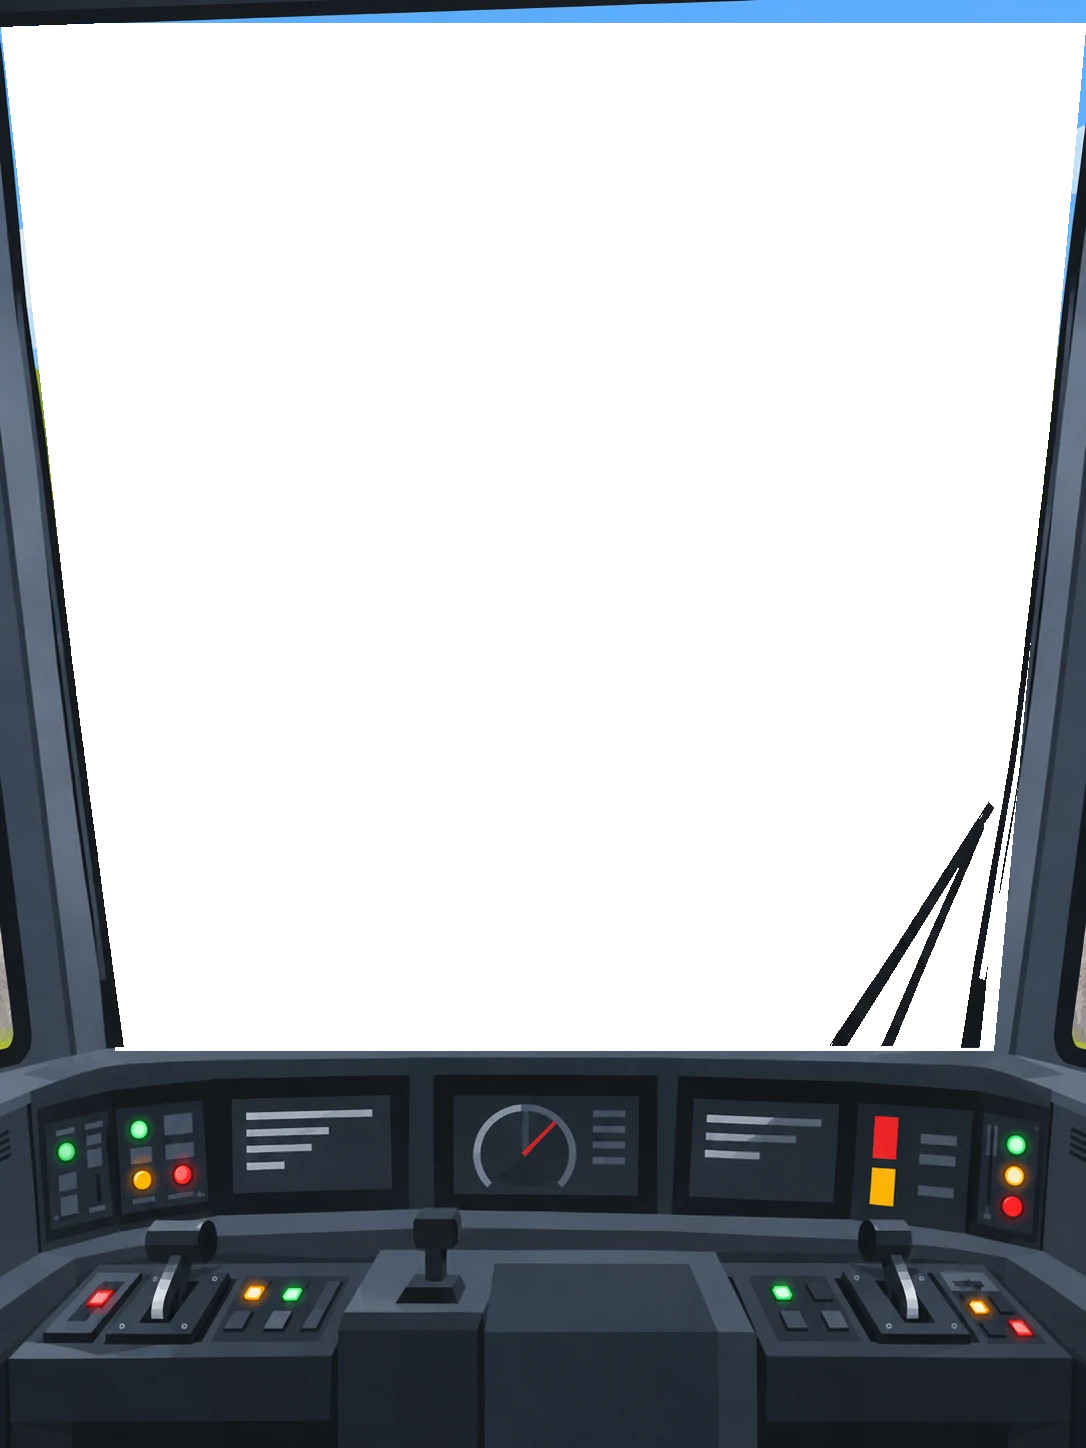
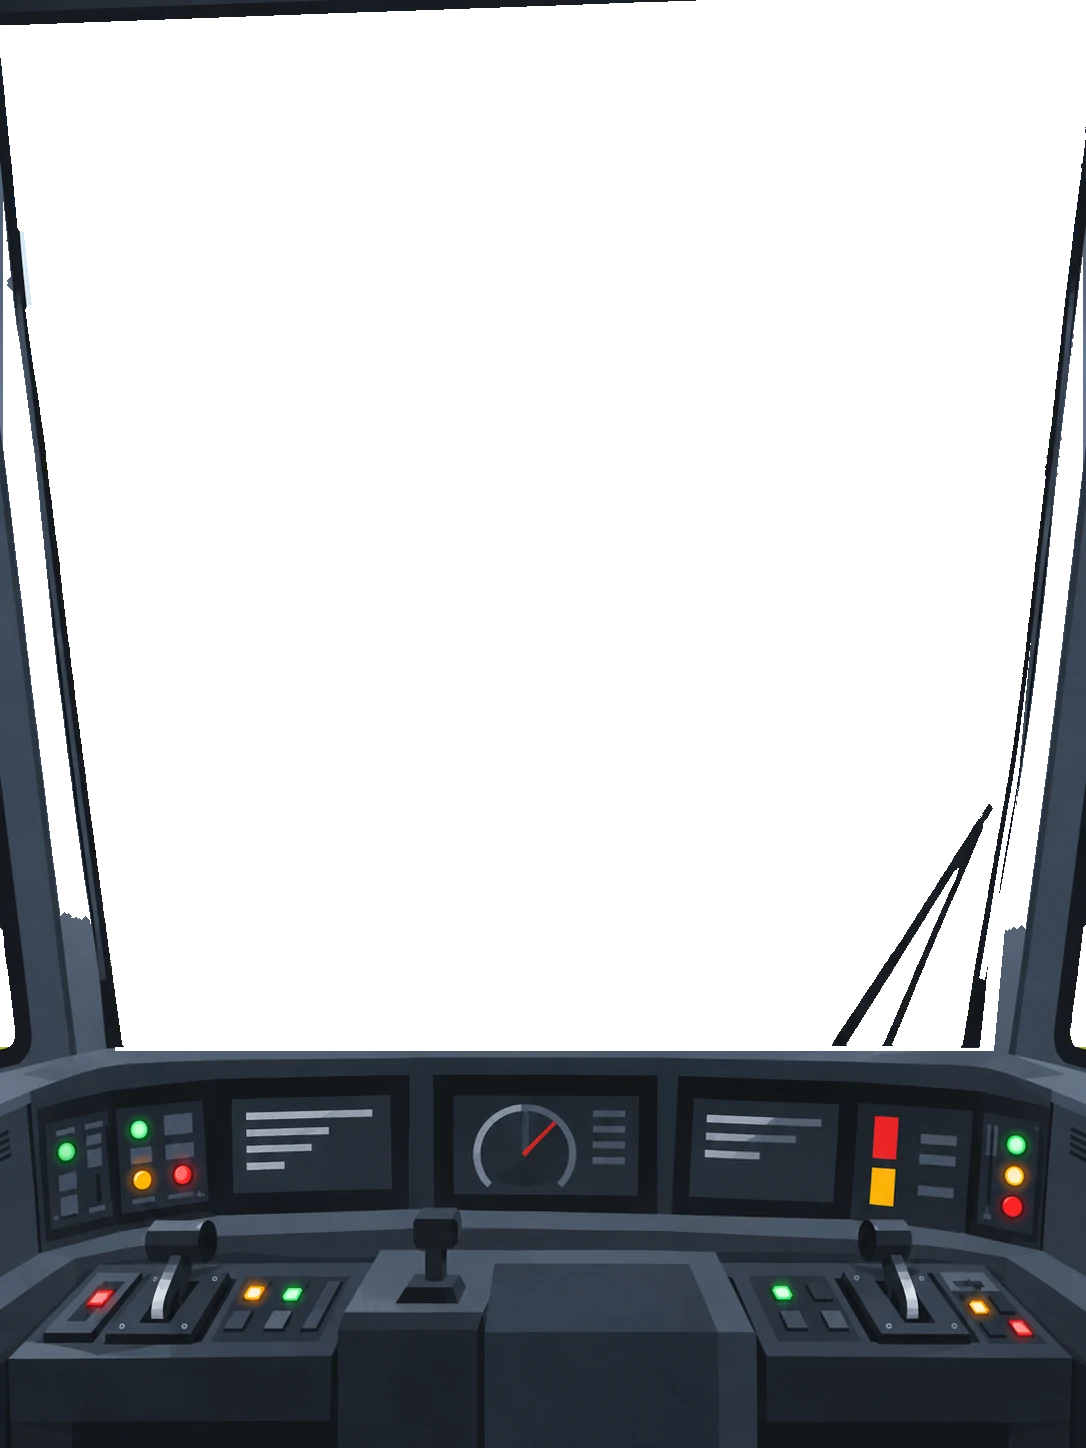
Wetter: Regen und Schnee auch in der Brille; Führerstand als Bild: Seitenfenster offen
Claude-Session: https://claude.ai/code/session_01NmQeKCF7bHq44rvGBQiMKH

diff --git a/app/src/komponenten/Relief.tsx b/app/src/komponenten/Relief.tsx
@@ -109,6 +109,8 @@ const DAEMMERUNG_HIMMEL = 0.3, DAEMMERUNG_SONNE = 0.25
 const WOLKEN_SONNE = 0.8, WOLKEN_HIMMEL = 0.15, WETTER_NEU_MS = 10 * 60e3
 /** Dunst bei Regen und Schnee im Führerstand (FogExp2, je km), gewählt */
 const DUNST_JE_KM = 0.06
+/** in der Brille auf dem Tisch: so gross ist der Würfel mit Regen und Schnee über dem Modell (m), gewählt */
+const NIEDER_TISCH_M = 1.6
 /** Tunnel als Röhre, durch die der Zug fährt und durch die man blicken kann (Michael, 2026-10-12: «in eine Röhre
  *  fahren … durch den Berg bewegen … durch die Röhre blicken»). Querschnitt, Farbe und Licht stehen in keiner Quelle.
  *  Seit 2026-10-13 nach Michaels Vorbild einer Modellbahn: ein Hufeisen, senkrechte Wände ROEHRE_HALB_M neben der Linie
@@ -1889,6 +1891,7 @@ function Szene({ r, h, faktor, weg: wegRoh, wegFarbe, zug: zugVonAussen, blick, 
     const niederStoff = new THREE.LineBasicMaterial({ color: '#dfe6ee', transparent: true, opacity: 0.55, depthWrite: false })
     const flockenStoff = new THREE.PointsMaterial({ color: '#ffffff', size: 3, sizeAttenuation: false, transparent: true, opacity: 0.9, depthWrite: false })
     const nieder = new THREE.LineSegments(niederGeo, niederStoff)
+    const niederPunkt = new THREE.Vector3()
     const flocken = new THREE.Points(niederGeo, flockenStoff)
     flocken.frustumCulled = false
     flocken.visible = false
@@ -4434,15 +4437,32 @@ function Szene({ r, h, faktor, weg: wegRoh, wegFarbe, zug: zugVonAussen, blick, 
       }
       // Regen und Schnee fallen im Würfel um die Kamera: im Führerstand 60 m, sonst mit dem Abstand zum Blickpunkt
       if (mitWetter) leisteLegen(imStand)
-      // in der Brille vorerst ohne (dort ist das Modell auf dem Tisch)
+      // auch in der Brille (Michael, 2026-10-24): auf dem Tisch über dem Modell, im Führerstand um den Kopf
       const schnee = wetter?.art === 'schnee'
-      const fallend = niederAn && !renderer.xr.isPresenting
+      const fallend = niederAn
       nieder.visible = fallend && !schnee
       flocken.visible = fallend && schnee
-      dunst.density = fallend && imStand ? DUNST_JE_KM * (0.5 + 0.5 * (wetter?.staerke ?? 0)) : 0
+      // der Dunst je Einheit der Welt: auf dem Bildschirm km, in der Brille Meter (das Modell 1000-fach)
+      dunst.density = fallend && imStand ? (DUNST_JE_KM * (0.5 + 0.5 * (wetter?.staerke ?? 0))) / modell.scale.x : 0
       if (fallend) {
-        const seite = imStand ? 0.06 : Math.min(30, Math.max(0.05, kamera.position.distanceTo(steuerung.target) * 0.8))
-        for (const o of [nieder, flocken]) { o.position.copy(kamera.position); o.scale.setScalar(seite) }
+        let seite: number
+        if (renderer.xr.isPresenting) {
+          modell.updateMatrixWorld()
+          if (imStand) {
+            renderer.xr.getCamera().getWorldPosition(niederPunkt)
+            seite = 0.06
+          } else {
+            // ein Würfel von NIEDER_TISCH_M über dem Modell auf dem Tisch, sein Boden auf der Höhe des Modells
+            modell.getWorldPosition(niederPunkt)
+            niederPunkt.y += NIEDER_TISCH_M / 2
+            seite = NIEDER_TISCH_M / modell.scale.x
+          }
+          modell.worldToLocal(niederPunkt)
+        } else {
+          niederPunkt.copy(kamera.position)
+          seite = imStand ? 0.06 : Math.min(30, Math.max(0.05, kamera.position.distanceTo(steuerung.target) * 0.8))
+        }
+        for (const o of [nieder, flocken]) { o.position.copy(niederPunkt); o.scale.setScalar(seite) }
         const fall = (schnee ? 0.12 : 1.1) * dt, wind = (schnee ? 0.03 : 0.08) * dt
         for (let i = 0, j = 0; i < NIEDER_N * 3; i += 3, j += 6) {
           niederMitte[i + 1] -= fall * (0.7 + 0.6 * ((i * 7919) % 100) / 100)

diff --git a/entwuerfe/fuehrerstand/schneiden.py b/entwuerfe/fuehrerstand/schneiden.py
@@ -1,0 +1,61 @@
+"""
+Michaels Vorlagen des Führerstands (2026-10-23) fürs Bild-Cockpit: Fenster, Seitenfenster und Reste der gemalten Landschaft
+durchsichtig, aussen dunkel. Danach als WebP nach app/src/assets/fuehrerstand-quer.webp und -hoch.webp:
+
+    .venv/bin/python entwuerfe/fuehrerstand/schneiden.py
+"""
+import sys
+import numpy as np
+from PIL import Image, ImageDraw, ImageFilter
+from pathlib import Path
+HIER = Path(__file__).resolve().parent
+U = str(HIER) + '/'
+def schneiden(datei, poly, wischer, ziel, rand=10, saum=3, seite_tol=14):
+    im = Image.open(U + datei).convert('RGBA')
+    # aussen um den Führerstand durchsichtig: dort dunkel wie der Rahmen, sonst schiene die Landschaft neben den Säulen durch
+    grund = Image.new('RGBA', im.size, (24, 27, 31, 255)); grund.alpha_composite(im); im = grund
+    w, h = im.size
+    m = Image.new('L', (w, h), 0); ImageDraw.Draw(m).polygon(poly, fill=255)
+    innen = np.asarray(m) > 0
+    gross = np.asarray(m.filter(ImageFilter.MaxFilter(2 * saum + 1))) > 0
+    klein = np.asarray(m.filter(ImageFilter.MinFilter(2 * rand + 1))) > 0
+    a = np.asarray(im).copy()
+    lum = a[..., :3].astype(int).mean(axis=2)
+    dunkel = lum < 40
+    wx0, wy0 = wischer
+    yy, xx = np.mgrid[0:h, 0:w]
+    weg = gross & ~( (dunkel & ~klein) | (dunkel & (xx > wx0) & (yy > wy0)) )
+    a[weg, 3] = 0
+    # die Seitenfenster: die hellen, schrägen Flächen in den Säulen (Michael, 2026-10-24: «Bei den Seitenfenstern sieht man noch
+    # nicht hinaus»), gefunden an ihrer Farbe, nur grosse Flächen über dem Pult, Löcher geschlossen
+    from scipy import ndimage
+    farbe = np.abs(a[..., :3].astype(int) - np.array([89, 111, 137])).max(axis=2) < seite_tol
+    farbe[poly[2][1]:] = False
+    lab, n = ndimage.label(farbe)
+    gr = ndimage.sum(farbe, lab, range(1, n + 1))
+    seiten = np.isin(lab, [i + 1 for i in range(n) if gr[i] > 5000])
+    seiten = ndimage.binary_fill_holes(ndimage.binary_closing(seiten, iterations=3))
+    a[seiten, 3] = 0
+    print('Seitenfenster', int(seiten.sum()))
+    # Reste der gemalten Landschaft über dem Pult (Himmel, Gras, Laub, Fels in den kleinen Seitenfenstern): weg, mit 2 Bildpunkten Saum
+    r, g, b = (a[..., i].astype(int) for i in range(3))
+    himmel = (b > 170) & (b > r + 40)
+    gruen = (g > r + 25) & (g > b + 25)
+    gelb = (r > 150) & (g > 150) & (b < 110)
+    # Fels: hell und eher warm, der Führerstand ist überall bläulich grau
+    fels = (r + g + b > 270) & (r >= b)
+    rest = (himmel | gruen | gelb | fels)
+    rest[poly[2][1] - 2:] = False
+    rest = ndimage.binary_dilation(rest, iterations=2)
+    rest[poly[2][1]:] = False
+    a[rest, 3] = 0
+    print('Reste', int(rest.sum()))
+    Image.fromarray(a).save(ziel)
+    print(ziel, w, h)
+ziel_ordner = str(HIER)
+schneiden('vorlage-quer.png', [(247, 63), (1597, 63), (1522, 502), (320, 502)], (1340, 230), ziel_ordner + '/cockpit-quer.png')
+schneiden('vorlage-hoch.png', [(4, 26), (1082, 26), (990, 1047), (118, 1047)], (780, 780), ziel_ordner + '/cockpit-hoch.png', seite_tol=20)
+
+from PIL import Image as _Bild
+for _n in ('quer', 'hoch'):
+    _Bild.open(f'{ziel_ordner}/cockpit-{_n}.png').save(HIER.parent.parent / f'app/src/assets/fuehrerstand-{_n}.webp', quality=88, method=6)

diff --git a/CLAUDE.md b/CLAUDE.md
@@ -223,7 +223,8 @@ data/gelaende/  Gelände der ganzen Schweiz (5 km Rand, dazu 3 km neben jeder Ba
              Bildschirm gewählt, beginnt die Brille dort; geprüft mit dem Emulator IWER (Meta), nicht auf einer Quest; im Führerstand ein Pult (komponenten/Fuehrerpult.ts, Michael, 2026-10-12, nach seinem Referenzbild,
              ohne Markenzeichen; alle Kästen mit gerundeten Kanten bis 3,5 cm und die Bildschirme mit runden Ecken, rund(), Michael, 2026-10-13: «alles ziemlich kantig»): auf dem Bildschirm seit 2026-10-23 nicht mehr in 3D, sondern Michaels Vorlage als Bild (komponenten/Fuehrerbild.ts, src/assets/fuehrerstand-quer.webp
              und -hoch.webp, quer 1846 × 852, hoch 1086 × 1448; Michael, 2026-10-23: «dass das Cockpit des Zuges ziemlich genau so aussieht … Alles, was aussen liegt … muss
-             natürlich weg»): das Fenster ausgeschnitten (der Wischer bleibt), aussen dunkel, das Bild füllt die Breite, das Pult unten in seiner Form, Säulen und Fenster
+             natürlich weg»): das Fenster und die Seitenfenster in den Säulen ausgeschnitten (Michael, 2026-10-24: «Bei den Seitenfenstern sieht man
+             noch nicht hinaus»), ebenso Reste der gemalten Landschaft, der Wischer bleibt, aussen dunkel (entwuerfe/fuehrerstand/schneiden.py mit den Vorlagen), das Bild füllt die Breite, das Pult unten in seiner Form, Säulen und Fenster
              darüber in der Höhe gestreckt; auf den gemalten Bildschirmen die drei Anzeigen, bedienbar die beiden Hebel (oben vorn, unten zurück) und die gemalten
              Leuchtknöpfe (Michael, 2026-10-23: «klickbare Knöpfe … möglichst das gleiche sehen»; BELEGUNG in Fuehrerbild.ts, gewählt): oben links Zuggeräusch, Stirnlicht,
              Signalhorn, Dämmerung, rechts Tunnel, Brücken, Bahnhöfe melden, die Leuchtfelder rot und gelb nur bei Schnellbremse und Bremse, unten Schnellbremse, Pultlicht,
@@ -450,7 +451,8 @@ data/wetterstationen.json  die 159 Stationen von MeteoSchweiz (SwissMetNet, Open
              fürs Bild: bewölkt nach den Minuten ohne Sonne der letzten 10 Minuten (nur am Tag, nachts klar), Regen ab 0,1 mm in 30
              Minuten, Schnee bis 1 °C; in der Szene (Relief.tsx, in der Modellbahn und beim Fahren, nicht bei «Wo bin
              ich?», dort verriete es die Gegend) grauer Himmel (himmel(…, bedeckt)), weniger Sonne (WOLKEN_SONNE), Regen als Striche und Schnee als Flocken in einem
-             Würfel um die Kamera, im Führerstand Dunst (DUNST_JE_KM), in der Brille vorerst ohne Regen und Schnee; neben dem Schalter die Zeile
+             Würfel um die Kamera, im Führerstand Dunst (DUNST_JE_KM), in der Brille Regen und Schnee auf dem Tisch in einem Würfel von 1,6 m über dem Modell, im Führerstand um den Kopf
+             (NIEDER_TISCH_M; Michael, 2026-10-24; mit dem Emulator nicht geprüft, IWER startete hier keine Sitzung); neben dem Schalter die Zeile
              «Wetter Station Uhrzeit: …, Temperatur (MeteoSchweiz)»; Quelle in der Fusszeile, Annahmen und Datenschutz unter Info
 data/standort.json  Lage jedes Tunnels, jeder Brücke und jedes Bahnübergangs aus der
              Quelle, für die Seite «Standort» (pipeline/build_linien.py)
